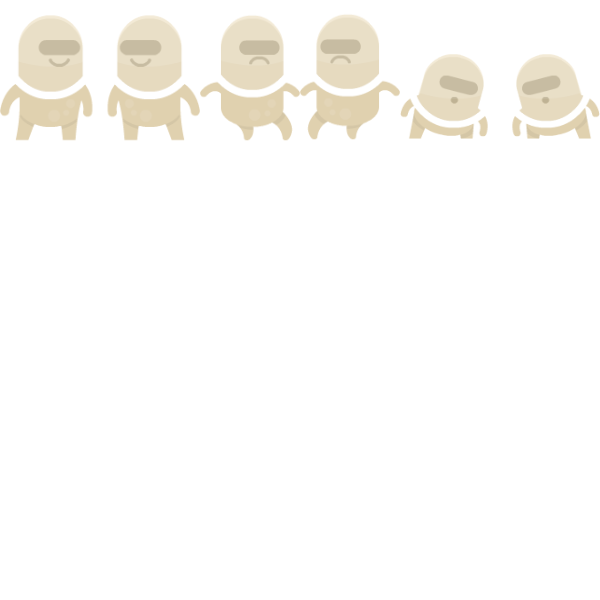
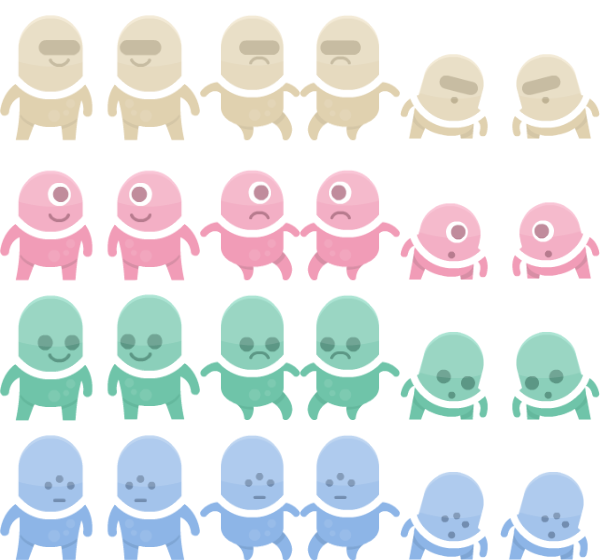
feat further menu styling, docs add more player sprites, fix stop attempting to trigger left/right movement before game start

diff --git a/assets/style.css b/assets/style.css
@@ -51,42 +51,52 @@ canvas {
   font-size: 32px;
 }
 
-#planet-title img {
-  left: -20%;
+#menu-planet {
+  left: -27%;
   position: relative;
   max-width: 70%;
   animation: 
   planet-spin 240s linear infinite;
+}
+.menu-player-container {
+  overflow: hidden;
+  display: block;
+  position: absolute;
+  top: 5%;
+  width: 100px;
+  height: 140px;
+  animation: menu-player 25s linear infinite;
+}
+
+#menu-player-left {
+  left: 5%;
+  background-image: url('img/players.png');
+  background-position: 0 0; 
+}
+
+#menu-player-right {
+  right: 5%;
+  background-image: url('img/players.png');
+  background-position: -100px -280px;
 }
 
 #title {
   padding: 25px 0;
   background-image: url(img/aluminum-plate-with-indentations.png);
   background-position: center;
-  background-size: 60%;
+  background-size: 100%;
   border-radius: 28px;
   margin: 0 auto;
   width: 65%;
   /* background-color: rgba(13, 126, 47, 0.28); */
-  border: 6px solid rgb(252, 249, 170);
+  border: 6px solid rgb(221, 218, 150);
   margin-bottom: 90px;
   word-spacing: 8px;
   letter-spacing: 8px;
   box-shadow: 0 0 58px #6bfff3;
+  text-shadow: 0 0 20px #d676e4, 2px 2px 3px #a85ab4,  -2px -2px 3px #a85ab4;
 }
 
-.idle h3 {
-  font-size: 28px;
-  text-align: center;
-  margin-top: 60px;
-}
-
-.idle p {
-  font-size: 20px;
-  padding: 20px;
-  text-align: center;
-  margin-top: 60px;
-}
 
 #game-over {
   height: 60dvh;
@@ -333,5 +343,24 @@ strong {
 @keyframes planet-spin {
   100% {
     transform: rotateZ(360deg);
+  }
+}
+
+@keyframes menu-player {
+  0% {
+    transform: rotate(-15deg) translateY(0);
+  }
+  25%{
+    transform: rotate(0);
+  }
+  50% {
+    transform: rotate(15deg) translateY(8px);
+  }
+  75% {
+    transform: rotate(0) translateY(-4px);
+  }
+  100% {
+    transform: rotate(-15deg);
+    transform: rotate(-15deg) translateY(0);
   }
 }

diff --git a/index.html b/index.html
@@ -20,28 +20,19 @@
     <h4 id="hi-score" class="hide scoreboard"></h4>
     <div id="start-screen" class="idle">
       <div id="planet-title">
+        <div class="menu-player-container" id="menu-player-left"></div>
         <h1 id="title" class="menu-animation">Block Whack Smack</h1>
+        <div class="menu-player-container" id="menu-player-right"></div>
         <div class="menu-animation">
           <img
-          class="menu-animation"
-          src="assets/img/planets/planet01.png"
-          alt="Graphic of a green and purple planet."
+            id="menu-planet"
+            class="menu-animation"
+            src="assets/img/planets/planet01.png"
+            alt="Graphic of a green and purple planet."
           />
         </div>
       </div>
-      <!-- 
-      <h3>How to play</h3>
-      <p>
-        Use the <strong>Left</strong> and <strong>Right</strong> arrow keys or
-        <strong>Tap</strong> on the Left and Right sides of the screen to whack
-        the blocks. Pressing Left will move your player to the left and vice
-        versa. <br />
-        Be careful as you whack those pesky blocks though or you'll get smacked
-        on the head! <br />
-        How many blocks can you whack before smack? <br />
-      </p>
-      <h3>Press ENTER or tap screen to Start</h3> 
-    --></div>
+    </div>
     <div id="game-over" class="hide">
       <div class="game-over-container">
         <h1>GAME OVER</h1>

diff --git a/assets/app.js b/assets/app.js
@@ -963,7 +963,7 @@ window.addEventListener("DOMContentLoaded", () => {
       case "ArrowLeft":
       case "a":
       case "A":
-        if (gameOver) {
+        if (!gameStart || gameOver) {
           return;
         }
         player.pos = 0;
@@ -972,7 +972,7 @@ window.addEventListener("DOMContentLoaded", () => {
       case "ArrowRight":
       case "d":
       case "D":
-        if (gameOver) {
+        if (!gameStart || gameOver) {
           return;
         }
         player.pos = 1;
